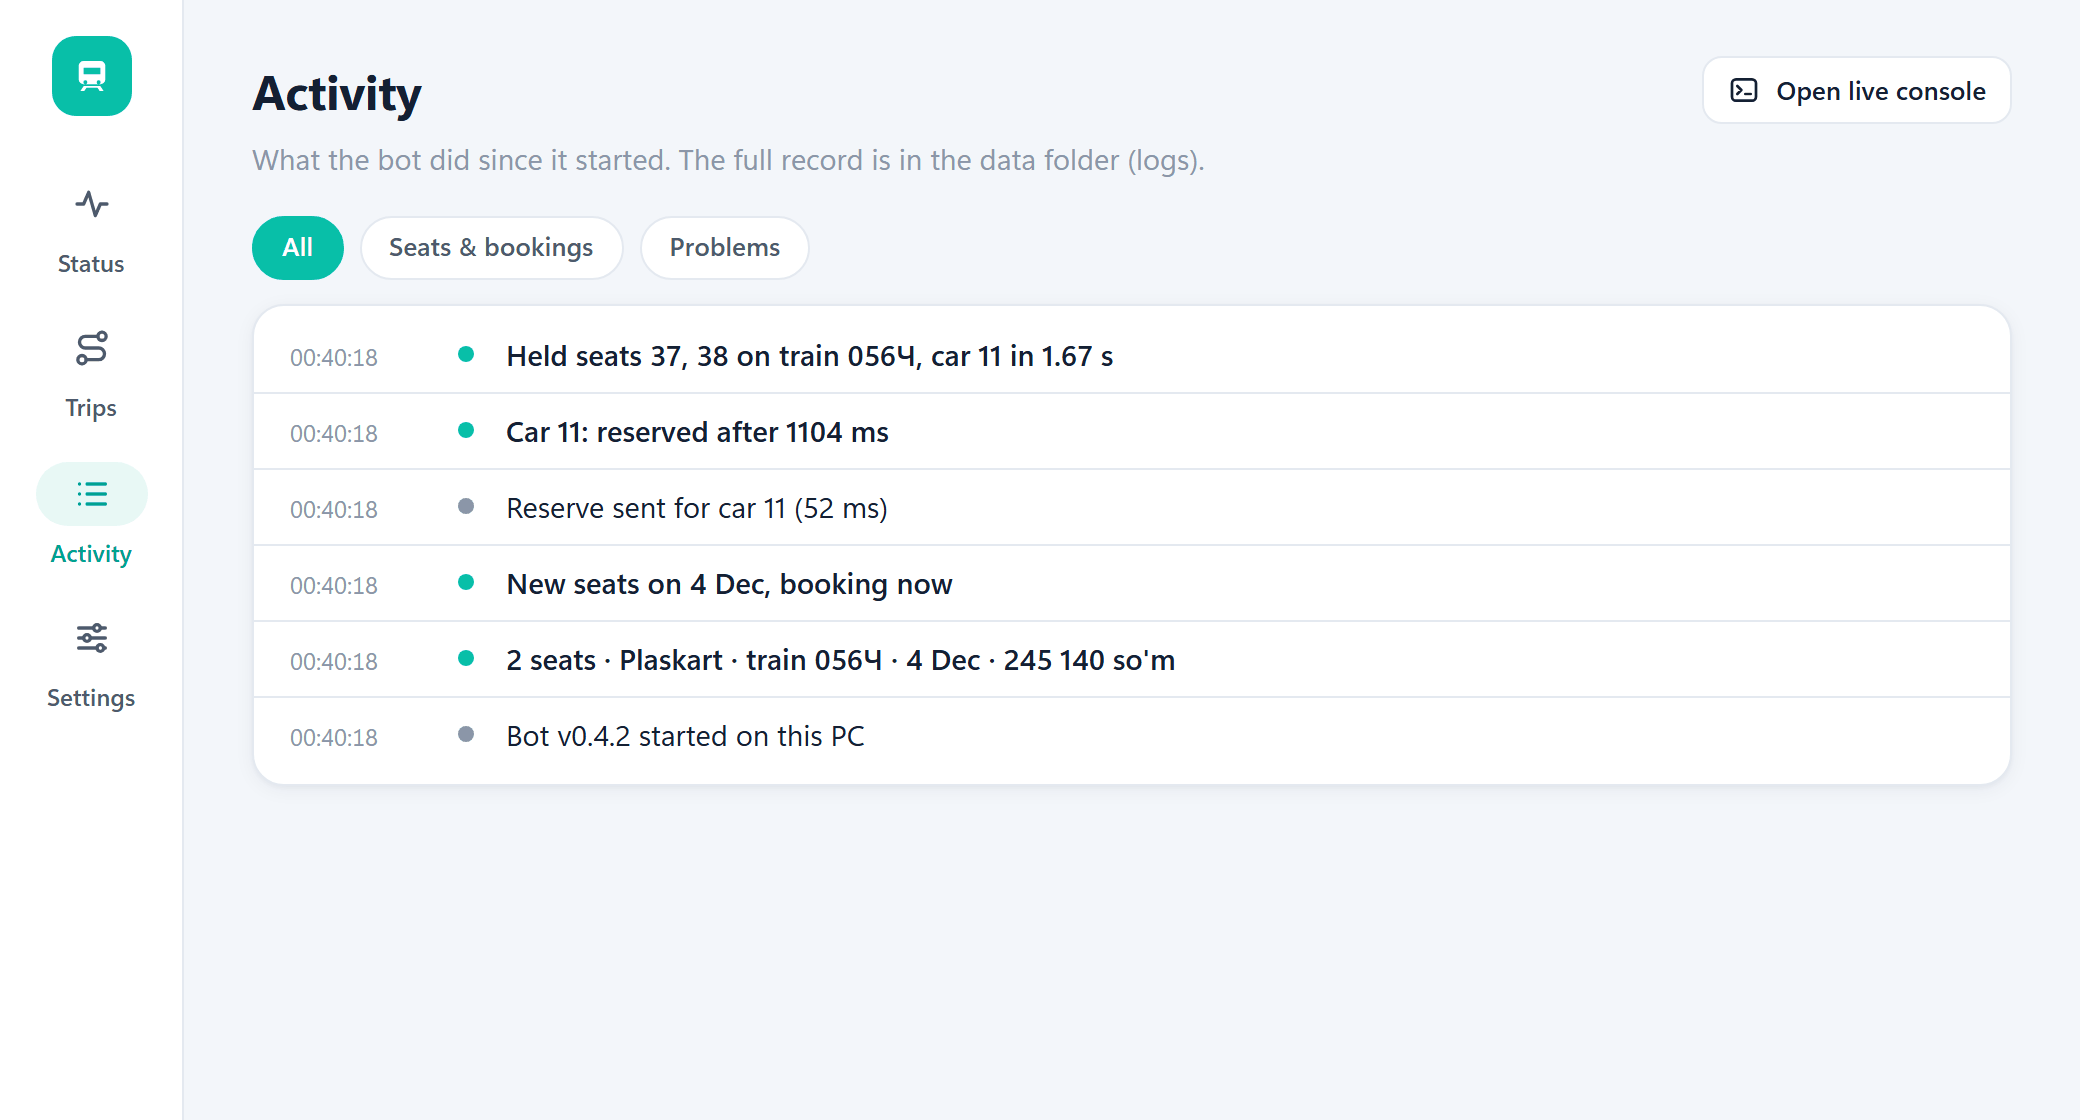
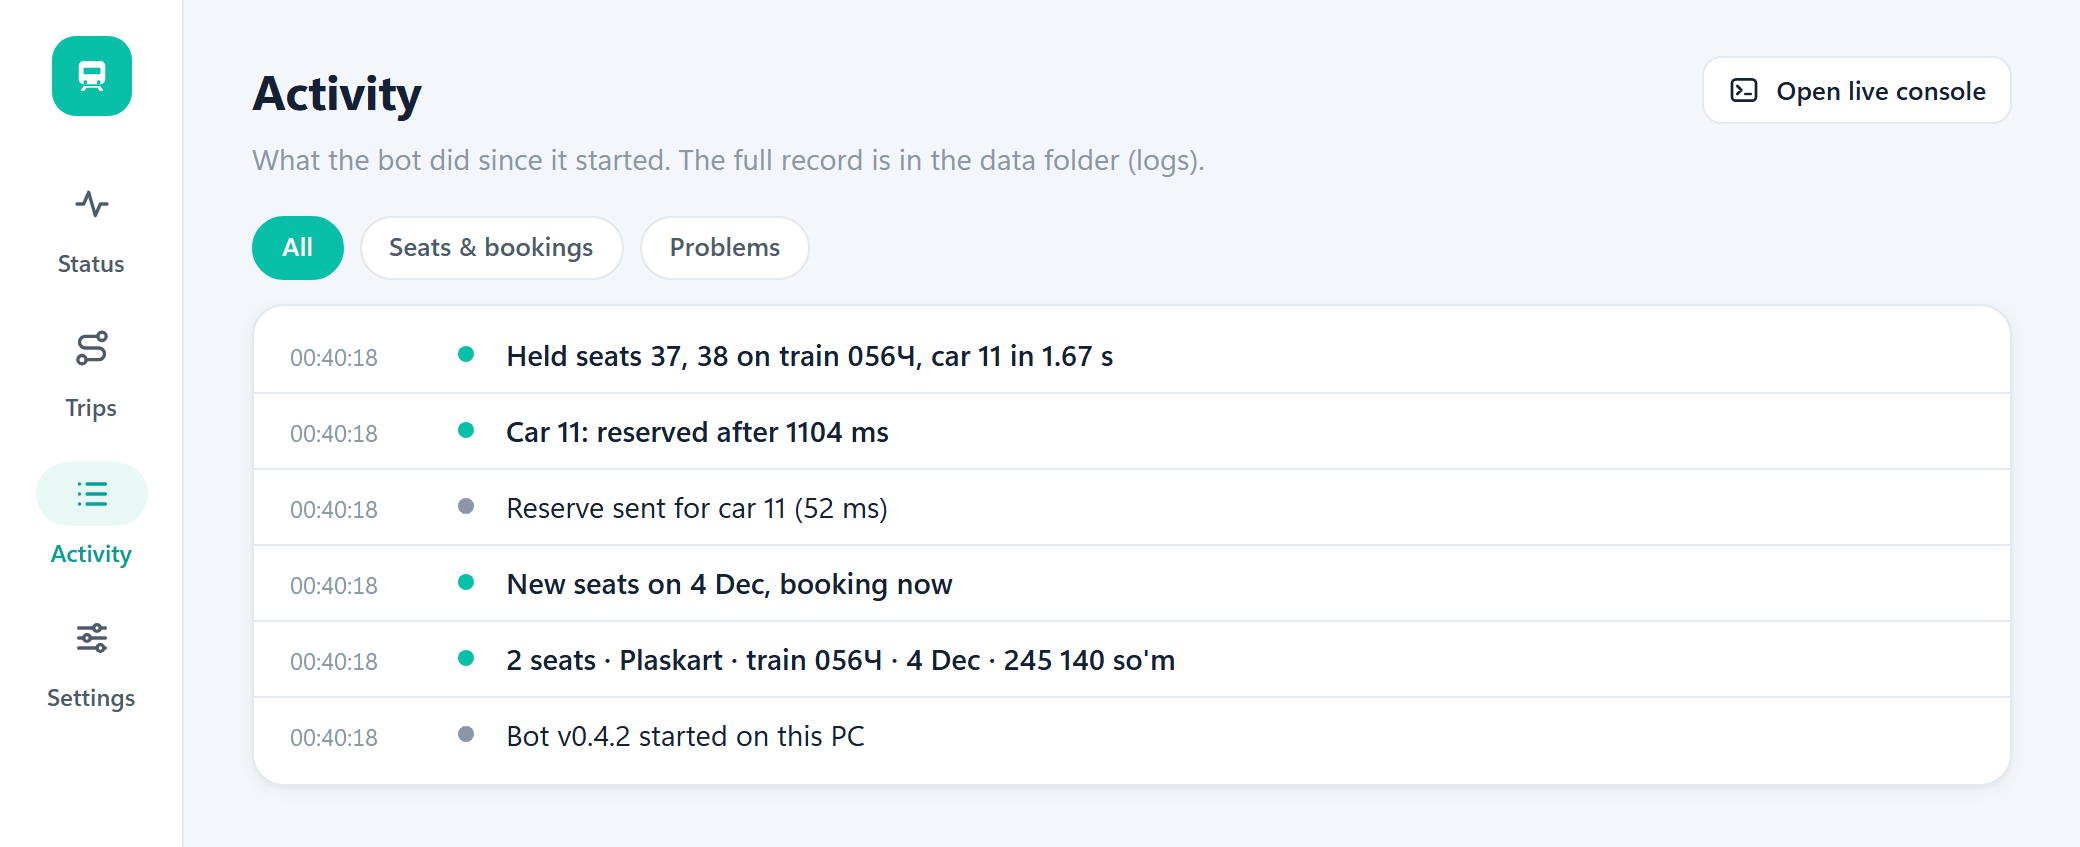
README: highlights as a list, compact diagram, tighter Activity screenshot
Claude-Session: https://claude.ai/code/session_017e67tqp8iDUo9DZ3RftYEZ

diff --git a/README.md b/README.md
@@ -33,16 +33,17 @@ Then it sends you a **Pay** button in Telegram.
 
 ## Highlights
 
-|  |  |
-| --- | --- |
-| ⚡ **Fast** | Usually about 2 s from a seat appearing to it being held in your name (measured on real sold-out trains). |
-| 🚆 **Every route and class** | Plaskart, kupe, SV, lux and sitting. Pick a route and you see its trains, times and classes. |
-| 👥 **Up to 4 passengers** | In priority order: if fewer seats appear, the first passengers get them. |
-| 💳 **You pay, it books** | Pay on Hamkorbank's own page; the ticket PDF arrives in the chat. |
-| 🔄 **Transfer** | Give a held seat to another of your saved passengers in a couple of seconds. |
-| 📊 **See everything** | Telegram status per passenger, a live board of free seats, an activity feed and a live console. |
-| 🔒 **Private** | Runs on your computer. Your railway password is encrypted on your phone before it leaves it. |
-| ⬆ **Updates itself** | New versions install in the background, never in the middle of a booking. |
+- ⚡ **Fast**: usually about 2 s from a seat appearing to it being held in your name (measured on real
+  sold-out trains).
+- 🚆 **Every route and class**: plaskart, kupe, SV, lux and sitting. Pick a route and you see its trains, times
+  and classes.
+- 👥 **Up to 4 passengers** in priority order: if fewer seats appear, the first passengers get them.
+- 💳 **You pay, it books**: pay on Hamkorbank's own page; the ticket PDF arrives in the chat.
+- 🔄 **Transfer**: give a held seat to another of your saved passengers in a couple of seconds.
+- 📊 **See everything**: per-passenger status in Telegram, a live board of free seats, an activity feed and a
+  live console.
+- 🔒 **Private**: runs on your computer. Your railway password is encrypted on your phone before it leaves it.
+- ⬆ **Updates itself**: new versions install in the background, never in the middle of a booking.
 
 ## Install
 
@@ -125,10 +126,8 @@ It also shows what the railway has right now on your dates.
 
 ```mermaid
 flowchart LR
-    R[("eticket.uzrailpass.uz")] -- "train list, about every 0.8 s" --> B["UzRail Bot<br/>on your computer"]
-    B -- "seat appeared: reserve it" --> R
-    B -- "seats · held · Pay · ticket PDF" --> T["Your Telegram"]
-    T -- "trips · passengers · transfer" --> B
+    R[("Railway site")] <-->|"check every 0.8 s<br/>reserve new seats"| B["UzRail Bot<br/>(your computer)"]
+    B <-->|"alerts · Pay · PDF<br/>trips · transfer"| T["Your<br/>Telegram"]
 ```
 
 There is no browser automation. The bot talks to the railway's own API, the same one the website uses.
